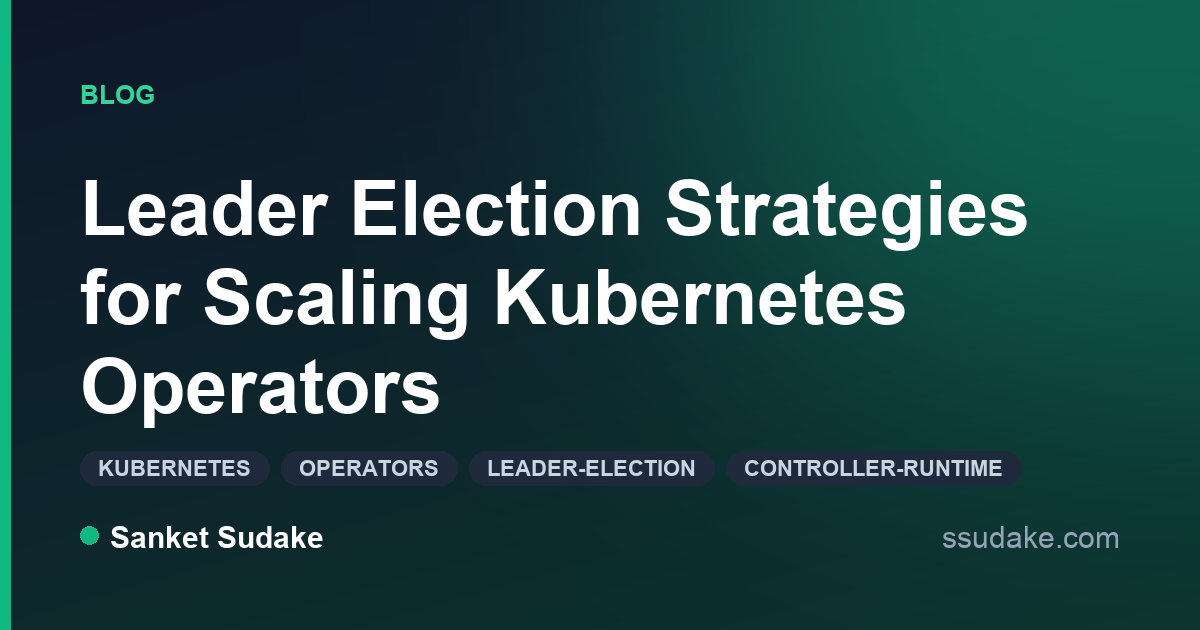
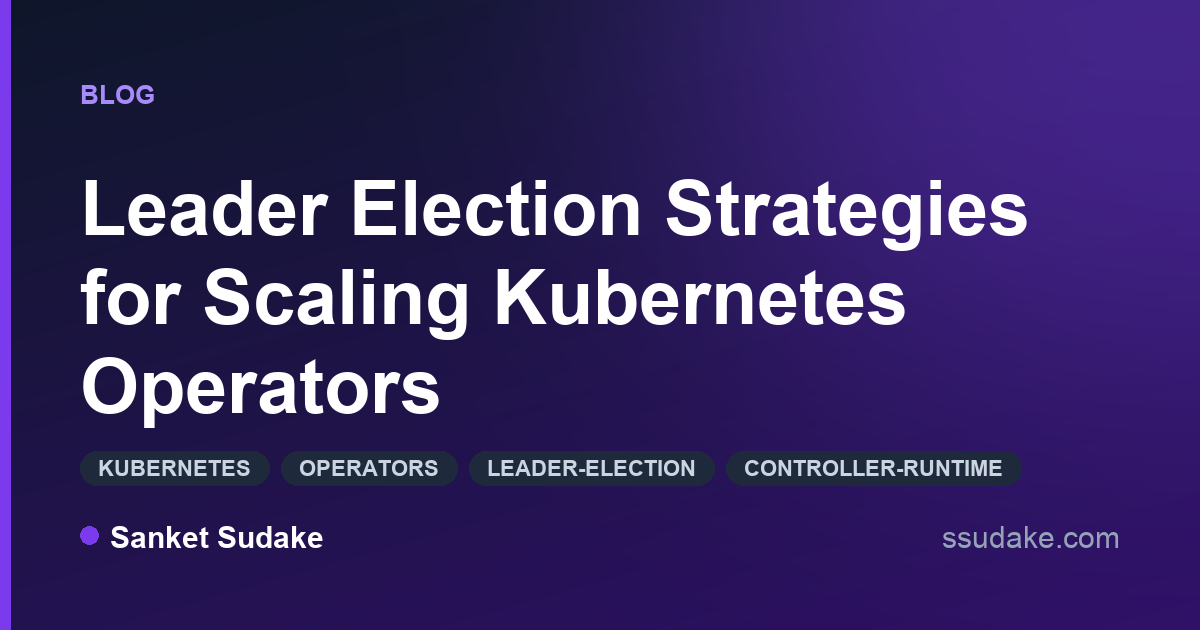
feat(brand): align social cards + manifest to site violet accent
The site's Congo accent is violet (--color-primary-600 = #7c3aed) but the OG
cards were emerald, so shared links looked off-brand. Recolour the card palette
(accent + gradient) to violet, regenerate all cards, and set the web-manifest
theme_color to the brand violet.

diff --git a/scripts/gen-og-image.py b/scripts/gen-og-image.py
@@ -64,14 +64,15 @@ def load_dotenv():
 load_dotenv()
 
 # ---------------------------------------------------------------------------
-# Brand palette (mirrors the Mermaid semantic palette in CLAUDE.md).
+# Brand palette — matches the site's Congo accent (--color-primary-* = violet),
+# so shared cards read as the same brand as the site.
 # ---------------------------------------------------------------------------
 W, H = 1200, 630
 MARGIN = 80
 BG_TOP = (15, 23, 42)        # slate-900  #0f172a
-BG_BOTTOM = (12, 51, 46)     # deep teal
-ACCENT = (16, 185, 129)      # emerald-500 #10b981
-ACCENT_SOFT = (52, 211, 153)  # emerald-400
+BG_BOTTOM = (46, 16, 101)    # violet-950 #2e1065
+ACCENT = (124, 58, 237)      # violet-600 #7c3aed (site --color-primary-600)
+ACCENT_SOFT = (167, 139, 250)  # violet-400 #a78bfa
 TEXT = (255, 255, 255)
 MUTED = (148, 163, 184)      # slate-400
 CHIP_BG = (30, 41, 59)       # slate-800
